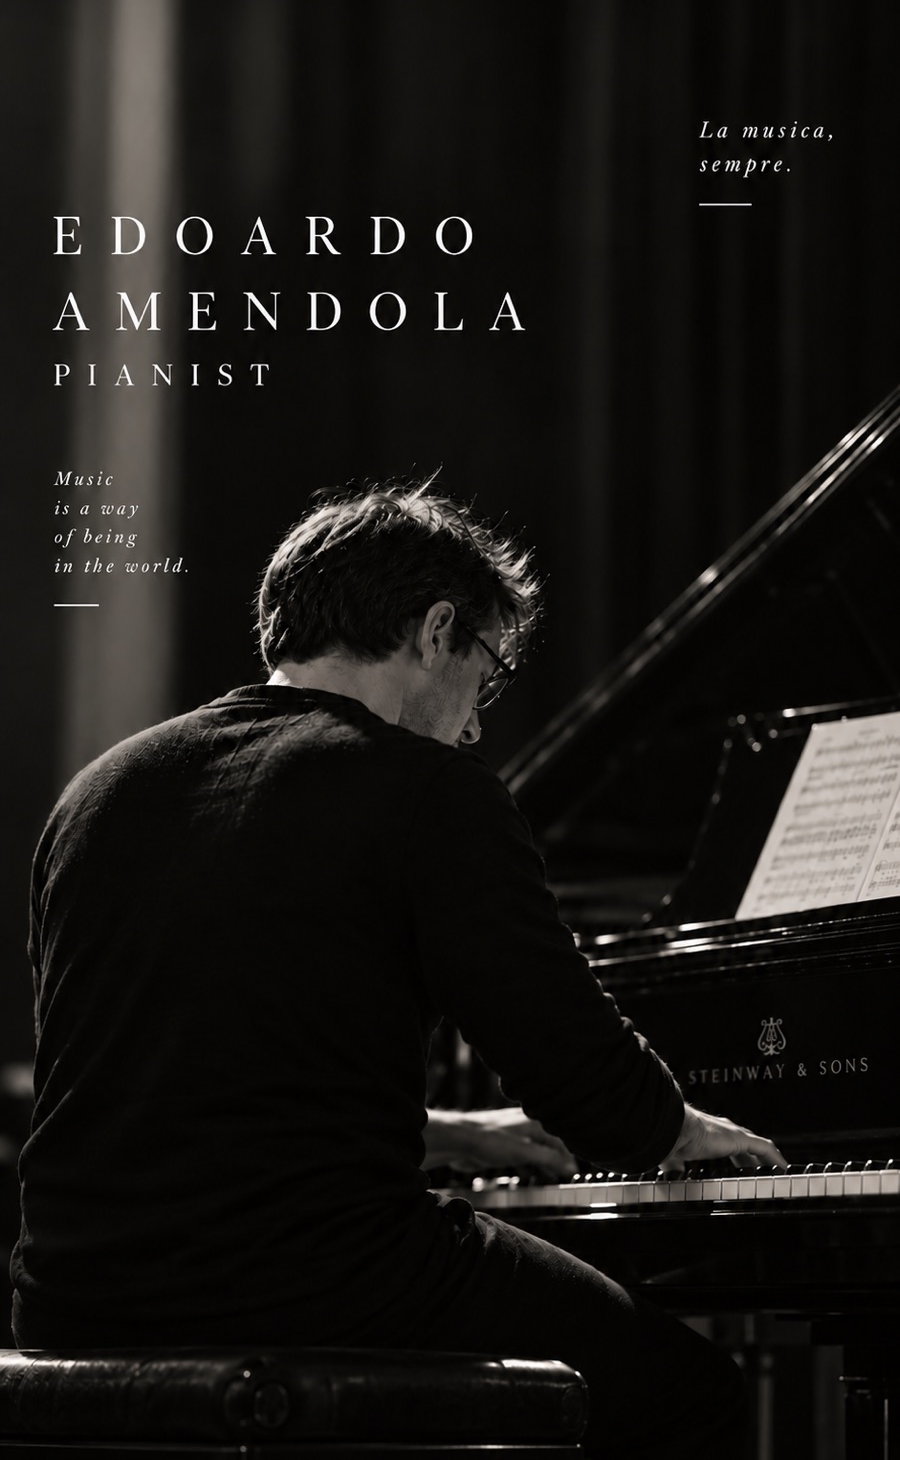
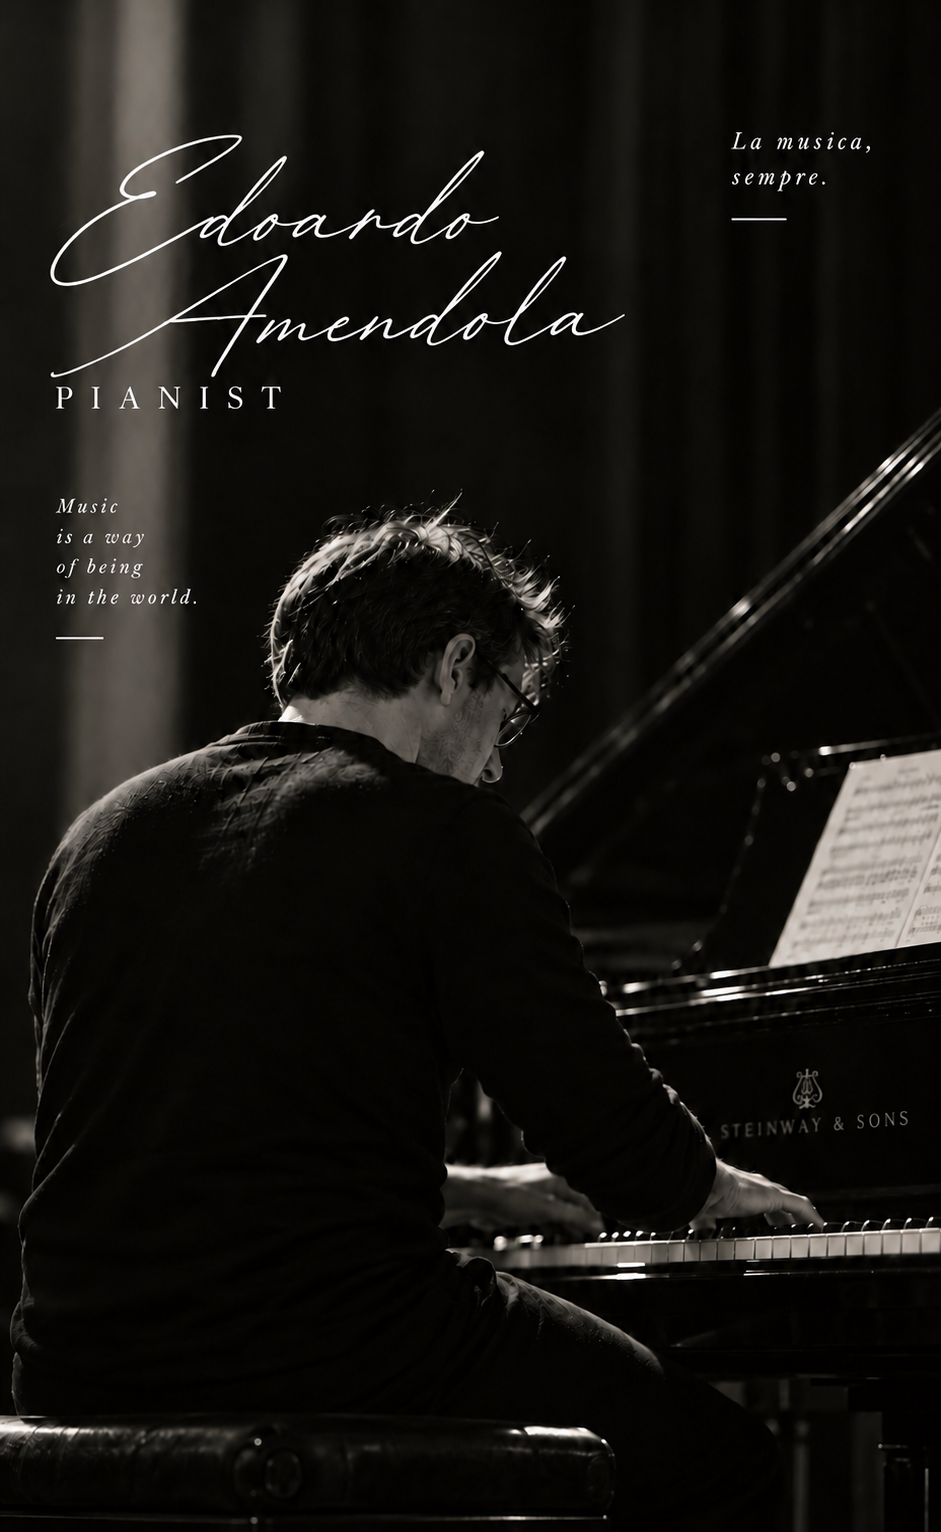
Add files via upload

diff --git a/index.html b/index.html
@@ -65,7 +65,7 @@
 <main>
 <section aria-label="Home" class="hero view active" id="home">
 <div class="hero-bg" aria-hidden="true"></div>
-<img alt="Edoardo Amendola playing piano" class="hero-image" src="assets/hero.png?v=10"/>
+<img alt="Edoardo Amendola playing piano" class="hero-image" src="assets/hero.png?v=11"/>
 </section>
 <section aria-live="polite" class="content-view view" id="contentView">
 <div aria-hidden="true" class="tile-reveal" id="tileReveal"></div>
